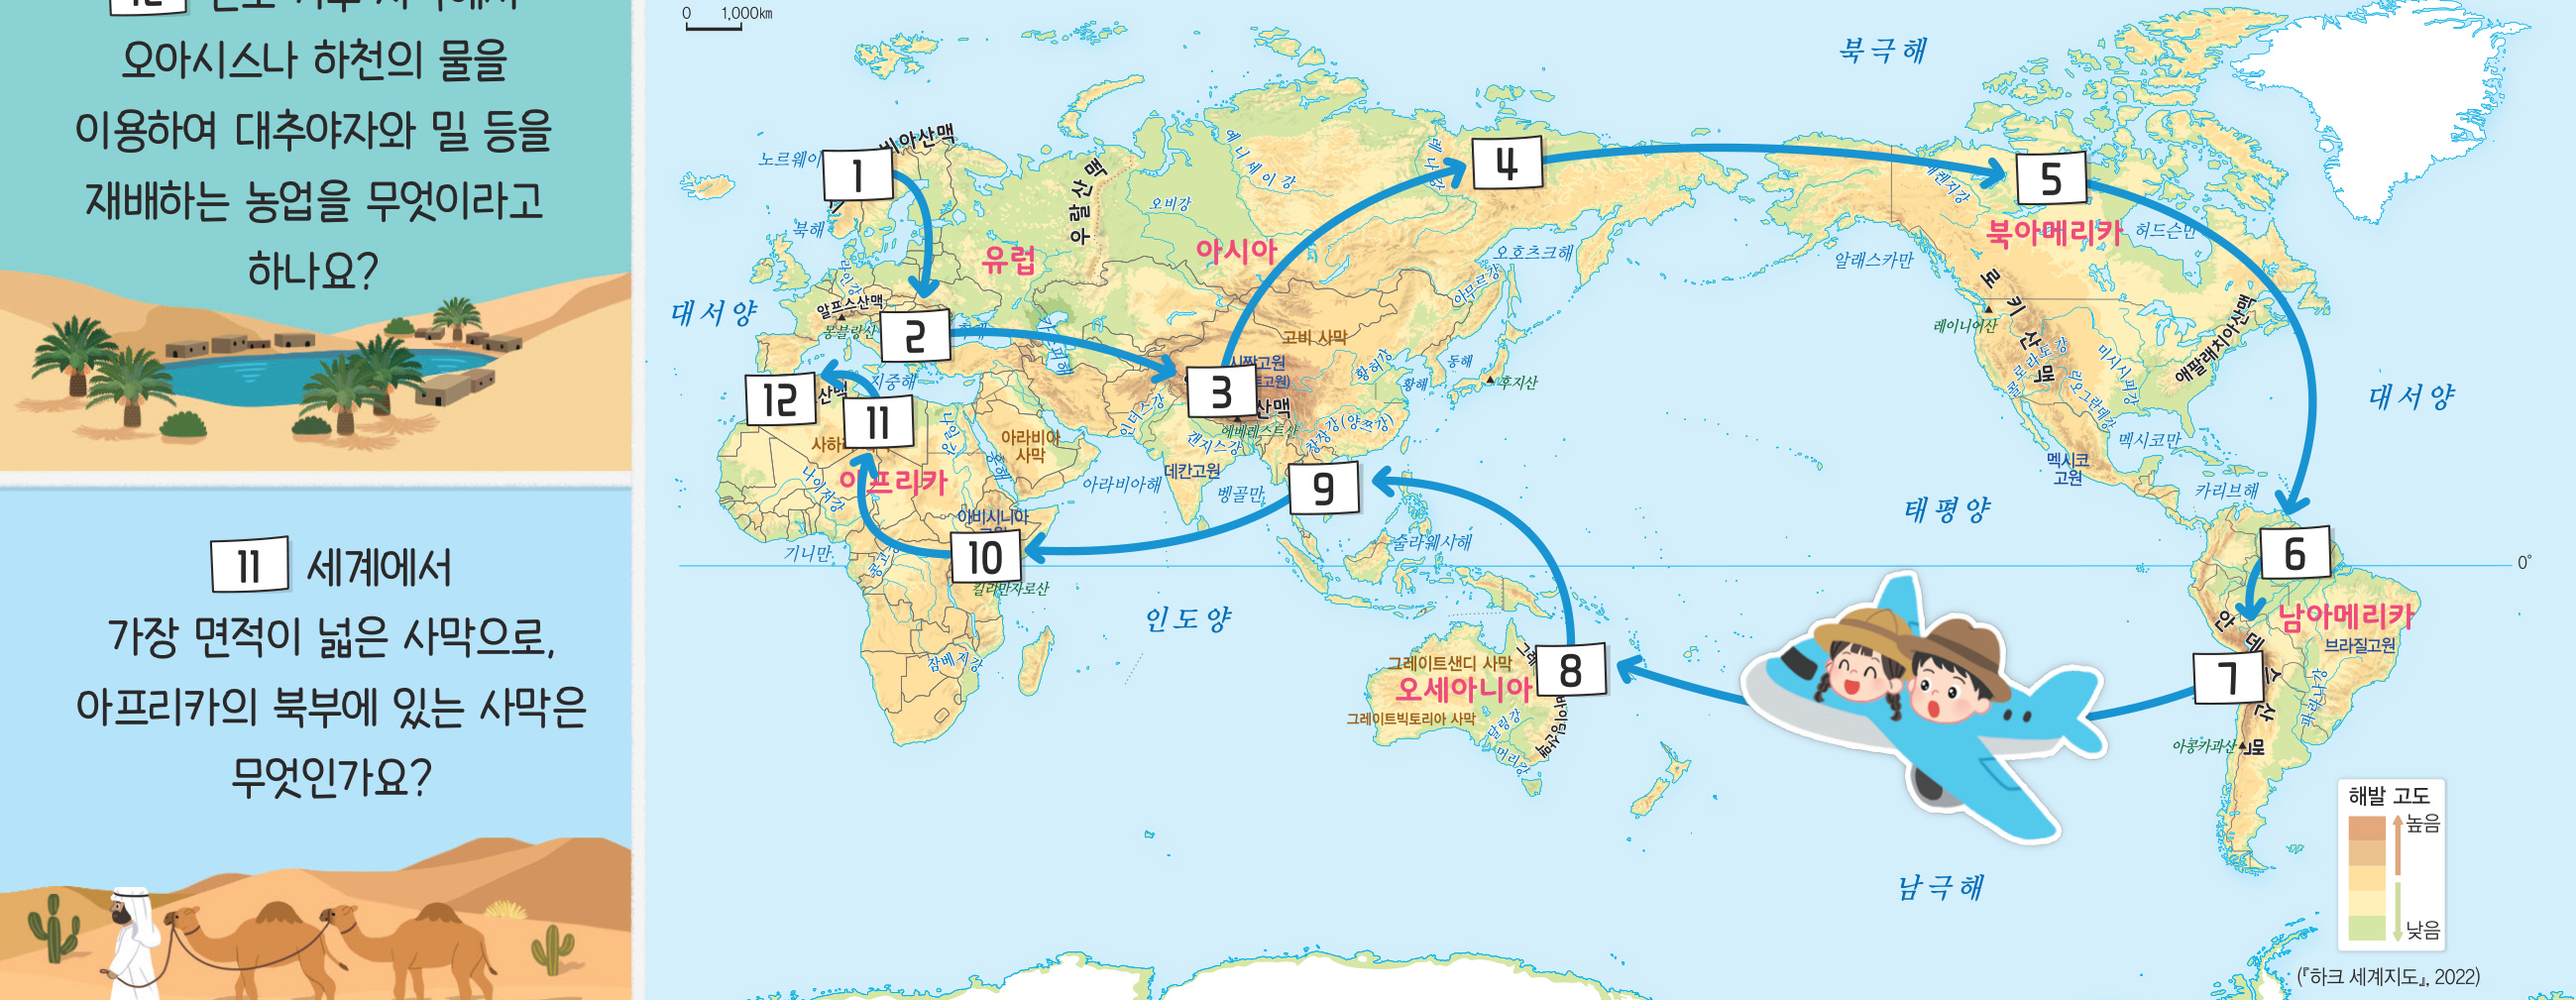
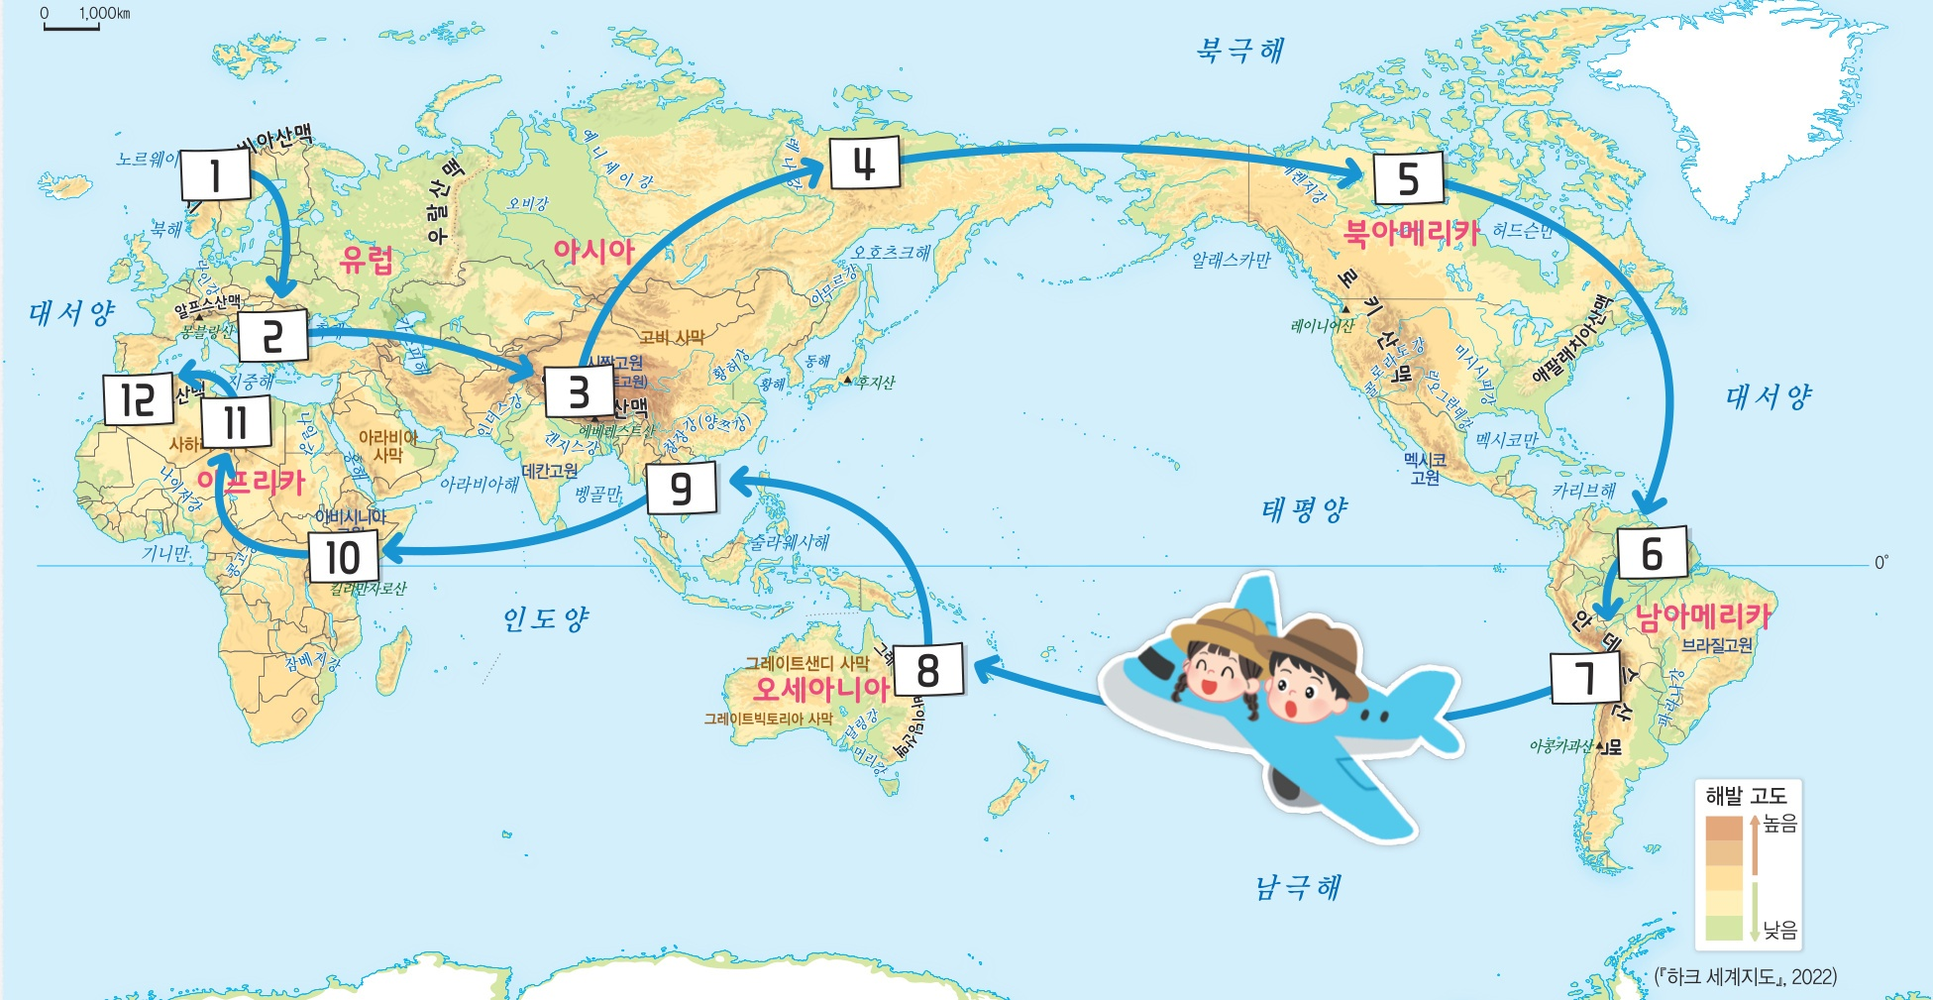
Crop map left question area, enlarge left character cards panel, and move dice right towards center

diff --git a/style.css b/style.css
@@ -1071,16 +1071,18 @@ button, input {
   filter: contrast(1.04) saturate(1.08);
 }
 
-/* 상단 좌측: 탐험가 현황 플로팅 바 */
+/* 상단 좌측: 탐험가 현황 패널 (좌측 영역을 채우는 대형 카드 리스트) */
 .map-floating-players {
   position: absolute;
-  top: 8px;
+  top: 10px;
+  bottom: 10px;
   left: 10px;
+  width: 175px;
   display: flex;
-  gap: 6px;
+  flex-direction: column;
+  justify-content: flex-start;
+  gap: 8px;
   z-index: 20;
-  max-width: 65%;
-  flex-wrap: wrap;
   pointer-events: auto;
 }
 
@@ -1107,60 +1109,61 @@ button, input {
 }
 
 .player-card {
-  background: rgba(15, 23, 42, 0.85);
-  backdrop-filter: blur(12px);
-  border: 1.5px solid rgba(255, 255, 255, 0.15);
-  border-left: 3.5px solid var(--card-color, #ef4444);
-  border-radius: 6px;
-  padding: 3px 7px;
-  display: inline-flex;
+  background: rgba(15, 23, 42, 0.90);
+  backdrop-filter: blur(14px);
+  border: 1.5px solid rgba(255, 255, 255, 0.18);
+  border-left: 4px solid var(--card-color, #ef4444);
+  border-radius: 8px;
+  padding: 7px 10px;
+  display: flex;
   align-items: center;
   justify-content: space-between;
-  gap: 5px;
+  gap: 8px;
   position: relative;
-  transition: all 0.2s ease;
-  box-shadow: 0 2px 8px rgba(0, 0, 0, 0.6);
+  transition: all 0.22s ease;
+  box-shadow: 0 4px 12px rgba(0, 0, 0, 0.65);
   box-sizing: border-box;
+  width: 100%;
 }
 
 .player-card:hover {
-  border-color: rgba(255, 255, 255, 0.3);
+  border-color: rgba(255, 255, 255, 0.35);
   border-left-color: var(--card-color, #ef4444);
 }
 
 .player-card.active-turn {
   border-color: var(--card-color, #ef4444);
   border-left-color: var(--card-color, #ef4444);
-  box-shadow: 0 0 12px var(--card-glow, rgba(239, 68, 68, 0.6)), 0 2px 8px rgba(0, 0, 0, 0.7);
-  background: rgba(30, 41, 59, 0.95);
-  transform: scale(1.04);
+  box-shadow: 0 0 16px var(--card-glow, rgba(239, 68, 68, 0.7)), 0 4px 14px rgba(0, 0, 0, 0.8);
+  background: rgba(30, 41, 59, 0.96);
+  transform: scale(1.03);
 }
 
 .card-left {
   display: flex;
   align-items: center;
-  gap: 5px;
+  gap: 7px;
   min-width: 0;
 }
 
 .card-avatar-wrap {
   position: relative;
-  width: 22px;
-  height: 22px;
+  width: 30px;
+  height: 30px;
   border-radius: 50%;
-  background: rgba(15, 23, 42, 0.9);
-  border: 1.5px solid var(--card-color, #ef4444);
+  background: rgba(15, 23, 42, 0.95);
+  border: 2px solid var(--card-color, #ef4444);
   display: flex;
   align-items: center;
   justify-content: center;
-  font-size: 0.88rem;
+  font-size: 1.15rem;
   flex-shrink: 0;
-  box-shadow: 0 2px 4px rgba(0, 0, 0, 0.4);
+  box-shadow: 0 2px 6px rgba(0, 0, 0, 0.5);
 }
 
 .turn-pulse-ring {
   position: absolute;
-  inset: -2px;
+  inset: -3px;
   border-radius: 50%;
   border: 2px solid var(--card-color, #ef4444);
   animation: turnRingPulse 1.6s infinite;
@@ -1176,23 +1179,23 @@ button, input {
 .card-info {
   display: flex;
   flex-direction: column;
-  gap: 0;
+  gap: 1px;
   min-width: 0;
   text-align: left;
 }
 
 .card-player-name {
   font-weight: 800;
-  font-size: 0.72rem;
+  font-size: 0.82rem;
   color: #ffffff;
   display: flex;
   align-items: center;
-  gap: 3px;
+  gap: 4px;
   white-space: nowrap;
 }
 
 .me-tag {
-  font-size: 0.50rem;
+  font-size: 0.52rem;
   padding: 1px 3px;
   border-radius: 3px;
   background: #38bdf8;
@@ -1202,7 +1205,10 @@ button, input {
 }
 
 .card-player-role {
-  display: none;
+  display: block;
+  font-size: 0.66rem;
+  font-weight: 600;
+  opacity: 0.9;
 }
 
 .card-stats-pills {
@@ -1213,16 +1219,16 @@ button, input {
 }
 
 .stat-pill {
-  font-size: 0.60rem;
+  font-size: 0.72rem;
   font-weight: 700;
-  padding: 1px 4px;
+  padding: 2px 6px;
   border-radius: var(--radius-sm);
-  background: rgba(0, 0, 0, 0.45);
-  border: 1px solid rgba(255, 255, 255, 0.08);
+  background: rgba(0, 0, 0, 0.5);
+  border: 1px solid rgba(255, 255, 255, 0.12);
   color: #cbd5e1;
   display: inline-flex;
   align-items: center;
-  gap: 2px;
+  gap: 3px;
 }
 
 .stat-pill strong {
@@ -1694,10 +1700,11 @@ button, input {
    ========================================================================== */
 .dice-widget {
   position: absolute;
-  bottom: 12px;
-  left: 12px;
+  bottom: 16px;
+  left: calc(50% + 45px);
+  transform: translateX(-50%);
   background: radial-gradient(circle at center, rgba(30, 41, 59, 0.95) 0%, rgba(15, 23, 42, 0.98) 100%);
-  border: 2px solid rgba(255, 255, 255, 0.18);
+  border: 2px solid rgba(255, 255, 255, 0.2);
   border-radius: 14px;
   padding: 8px;
   display: flex;
@@ -1706,7 +1713,7 @@ button, input {
   cursor: pointer;
   transition: all 0.28s cubic-bezier(0.34, 1.56, 0.64, 1);
   user-select: none;
-  box-shadow: 0 4px 14px rgba(0, 0, 0, 0.6);
+  box-shadow: 0 4px 16px rgba(0, 0, 0, 0.65);
   z-index: 30;
 }
 
@@ -1719,7 +1726,7 @@ button, input {
 }
 
 .dice-widget.my-turn-active:hover {
-  transform: scale(1.08);
+  transform: translateX(-50%) scale(1.08);
   box-shadow: 0 0 35px rgba(251, 191, 36, 0.9), inset 0 0 20px rgba(251, 191, 36, 0.4);
 }
 
@@ -1733,12 +1740,12 @@ button, input {
   0%, 100% {
     box-shadow: 0 0 18px rgba(251, 191, 36, 0.5), inset 0 0 10px rgba(251, 191, 36, 0.15);
     border-color: rgba(251, 191, 36, 0.6);
-    transform: scale(1);
+    transform: translateX(-50%) scale(1);
   }
   50% {
     box-shadow: 0 0 30px rgba(251, 191, 36, 0.9), inset 0 0 18px rgba(251, 191, 36, 0.35);
     border-color: #f59e0b;
-    transform: scale(1.04);
+    transform: translateX(-50%) scale(1.05);
   }
 }
 

diff --git a/js/boardData.js b/js/boardData.js
@@ -503,25 +503,25 @@ export const PLAYER_PROFILES = [
 ];
 
 export const MAP_CELL_COORDINATES = {
-  0: { x: 27.0, y: 16.5, label: '출발' },
-  1: { x: 33.30, y: 17.65, label: '1' },
-  2: { x: 34.20, y: 25.50, label: '지형' },
-  3: { x: 35.53, y: 33.79, label: '2' },
-  4: { x: 47.44, y: 39.32, label: '3' },
-  5: { x: 53.00, y: 27.50, label: '기후' },
-  6: { x: 58.53, y: 16.47, label: '4' },
-  7: { x: 69.00, y: 17.00, label: '여행' },
-  8: { x: 79.65, y: 18.01, label: '5' },
-  9: { x: 89.12, y: 55.48, label: '6' },
-  10: { x: 86.52, y: 68.00, label: '7' },
-  11: { x: 73.50, y: 71.00, label: '무인도' },
-  12: { x: 60.99, y: 67.20, label: '8' },
-  13: { x: 56.00, y: 58.00, label: '지형' },
-  14: { x: 51.40, y: 49.02, label: '9' },
-  15: { x: 44.80, y: 52.50, label: '기후' },
-  16: { x: 38.27, y: 55.87, label: '10' },
-  17: { x: 30.00, y: 52.00, label: '찬스' },
-  18: { x: 34.10, y: 42.40, label: '11' },
-  19: { x: 30.30, y: 40.14, label: '12' }
+  0: { x: 2.75, y: 16.5, label: '출발' },
+  1: { x: 11.15, y: 17.65, label: '1' },
+  2: { x: 12.35, y: 25.50, label: '지형' },
+  3: { x: 14.12, y: 33.79, label: '2' },
+  4: { x: 29.98, y: 39.32, label: '3' },
+  5: { x: 37.39, y: 27.50, label: '기후' },
+  6: { x: 44.76, y: 16.47, label: '4' },
+  7: { x: 58.70, y: 17.00, label: '여행' },
+  8: { x: 72.89, y: 18.01, label: '5' },
+  9: { x: 85.51, y: 55.48, label: '6' },
+  10: { x: 82.04, y: 68.00, label: '7' },
+  11: { x: 64.70, y: 71.00, label: '무인도' },
+  12: { x: 48.03, y: 67.20, label: '8' },
+  13: { x: 41.39, y: 58.00, label: '지형' },
+  14: { x: 35.26, y: 49.02, label: '9' },
+  15: { x: 26.47, y: 52.50, label: '기후' },
+  16: { x: 17.77, y: 55.87, label: '10' },
+  17: { x: 6.75, y: 52.00, label: '찬스' },
+  18: { x: 12.21, y: 42.40, label: '11' },
+  19: { x: 7.15, y: 40.14, label: '12' }
 };
 

diff --git a/index.html b/index.html
@@ -354,6 +354,6 @@
   </div>
 
   <!-- 메인 스크립트 모듈 로드 -->
-  <script type="module" src="js/app.js?v=20261003_v2"></script>
+  <script type="module" src="js/app.js?v=20261003_v3"></script>
 </body>
 </html>
